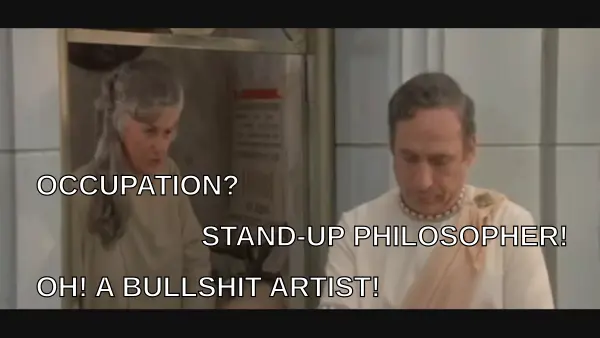
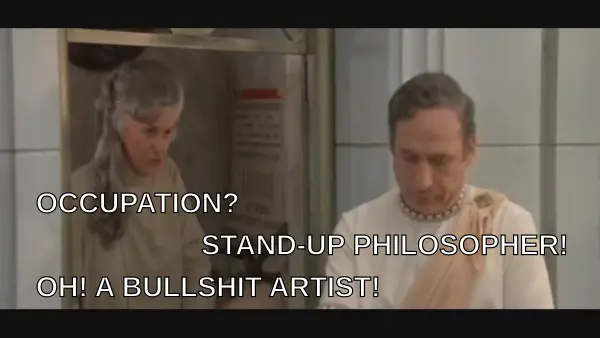
add transform

Changed region(s): [[0.06, 0.503, 0.96, 0.7692]]

diff --git a/transform.py b/transform.py
@@ -13,8 +13,9 @@
 import re
 import sys
 
-delta = 30.0
+delta = -30.0
 starty = 60.0
+starty = -2 * delta
 ys = [None]
 
 y = starty + 0
